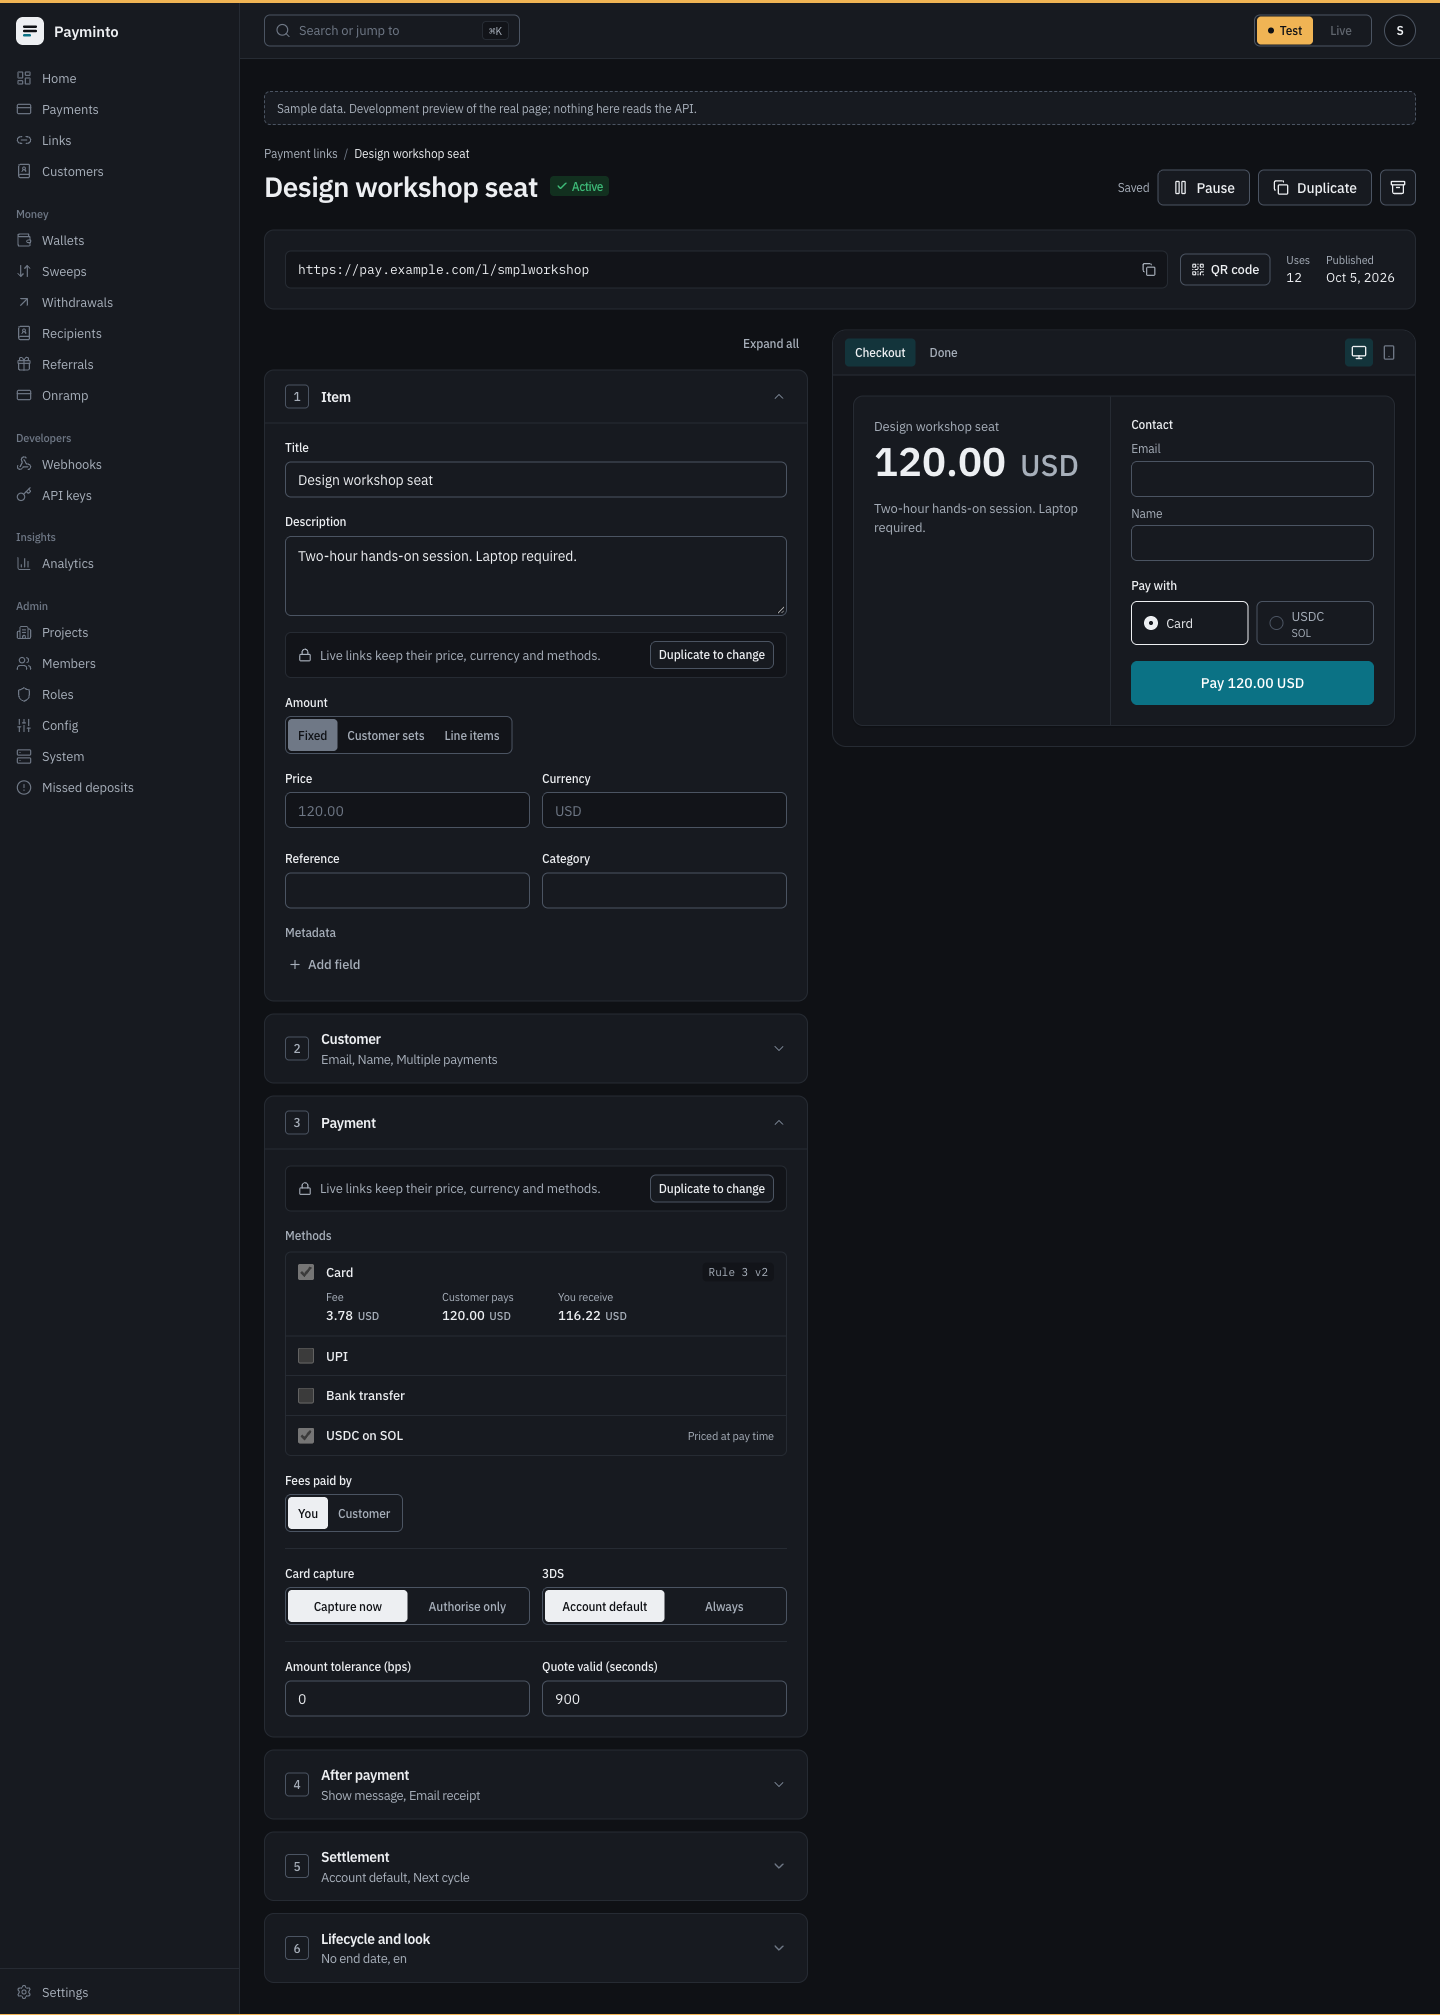
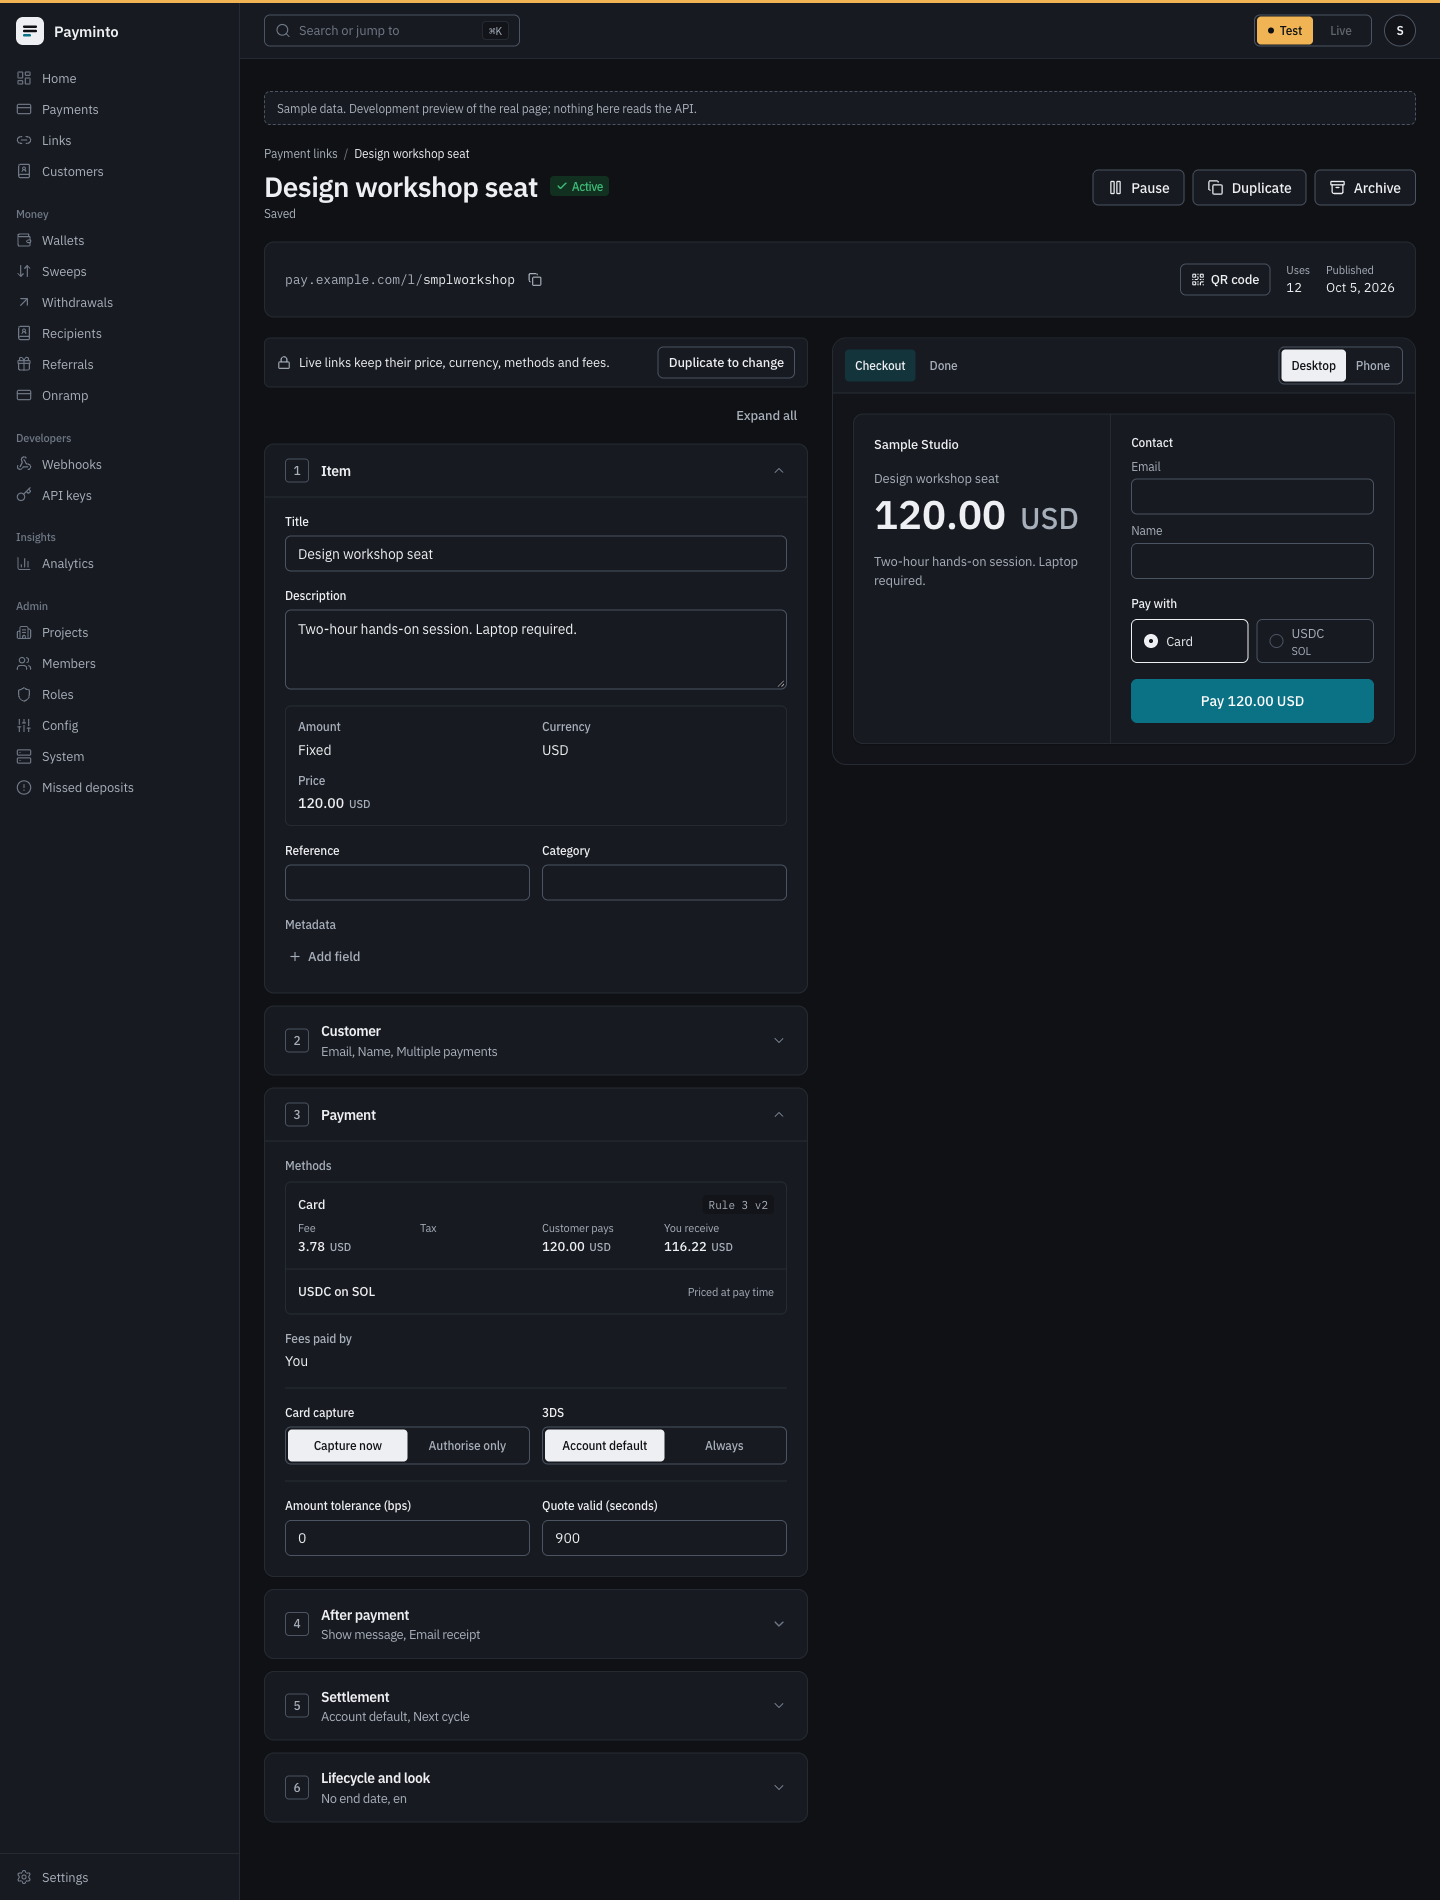
links: visual fixes from the browser pass and fresh screenshots at 390 and 1440, light and dark
Claude-Session: https://claude.ai/code/session_01C1FvPgCCqX9b4755DP2dPG

diff --git a/frontend/features/links/components/steps.tsx b/frontend/features/links/components/steps.tsx
@@ -579,9 +579,9 @@ function MethodRow({
         )}
         {on && fee ? <FeeBadge fee={fee} customerMode={customerMode} /> : null}
       </div>
-      {on && fee?.kind === "priced" ? <FeeGrid preview={fee.preview} currency={currency} /> : null}
+      {on && fee?.kind === "priced" ? <FeeGrid preview={fee.preview} currency={currency} indent={!locked} /> : null}
       {error ? (
-        <div className="pb-1 pl-7">
+        <div className={cn("pb-1", !locked && "pl-7")}>
           <FieldError id={id}>{error}</FieldError>
         </div>
       ) : null}
@@ -612,7 +612,7 @@ function FeeBadge({ fee, customerMode }: { fee: MethodFeeView; customerMode: boo
 }
 
 /** The same four columns for every method so rows line up; the tax cell stays empty when there is none. */
-function FeeGrid({ preview, currency }: { preview: MethodPreview; currency: string }) {
+function FeeGrid({ preview, currency, indent }: { preview: MethodPreview; currency: string; indent: boolean }) {
   const cur = preview.fee_currency || currency;
   const cells: [string, string | null][] = [
     [FEE.fee, preview.fee],
@@ -621,7 +621,7 @@ function FeeGrid({ preview, currency }: { preview: MethodPreview; currency: stri
     [FEE.net, preview.merchant_net],
   ];
   return (
-    <dl className="grid grid-cols-4 gap-x-3 pb-1.5 pl-7">
+    <dl className={cn("grid grid-cols-2 gap-x-3 gap-y-1 pb-1.5 sm:grid-cols-4", indent && "pl-7")}>
       {cells.map(([k, v]) => (
         <div key={k} className="min-w-0">
           <dt className="truncate text-caption text-ink-soft">{k}</dt>
@@ -741,10 +741,10 @@ export function LifecycleStep({ form, edit, err }: StepProps) {
                 aria-label={F.accentPicker}
                 value={accentOk ? form.accent_color.toLowerCase() : "#0b7285"}
                 onChange={(e) => edit("accent_color", set("accent_color", e.target.value.toUpperCase()))}
-                className="absolute inset-0 cursor-pointer opacity-0"
+                className="absolute inset-0 size-full cursor-pointer opacity-0"
               />
             </label>
-            <Input id="lf-accent" className="font-mono uppercase" placeholder={F.noAccent} maxLength={7} value={form.accent_color} {...a11y("lf-accent", err("accent_color"))} onChange={(e) => edit("accent_color", set("accent_color", e.target.value))} />
+            <Input id="lf-accent" className="font-mono uppercase placeholder:normal-case placeholder:font-sans" placeholder={F.noAccent} maxLength={7} value={form.accent_color} {...a11y("lf-accent", err("accent_color"))} onChange={(e) => edit("accent_color", set("accent_color", e.target.value))} />
           </div>
         </Field>
         <Field label={F.language} htmlFor="lf-lang" error={err("language")}>

diff --git a/frontend/features/links/components/link-builder.tsx b/frontend/features/links/components/link-builder.tsx
@@ -326,6 +326,7 @@ export function LinkBuilder({ link: initial, basePath = "/dashboard/links" }: { 
 
   return (
     <div className="space-y-5">
+      <div className="space-y-1">
       <PageHeader
         breadcrumbs={[{ label: LINKS_COPY.listTitle, href: basePath }, { label: title }]}
         title={
@@ -379,13 +380,14 @@ export function LinkBuilder({ link: initial, basePath = "/dashboard/links" }: { 
           ) : null}
         </div>
       </PageHeader>
-      <p role="status" aria-live="polite" className={cn("-mt-3 min-h-4 text-label", saveLabel === B.notSaved ? "text-bad" : "text-ink-soft")}>
+      <p role="status" aria-live="polite" className={cn("min-h-4 text-label", saveLabel === B.notSaved ? "text-bad" : "text-ink-soft")}>
         {saveLabel}
       </p>
+      </div>
 
       {current?.url ? (
         <div className="flex flex-col gap-3 rounded-md border border-line bg-surface p-4 sm:flex-row sm:items-center sm:p-5">
-          <ShortLink url={current.url} title={current.title} className="min-w-0 flex-1" />
+          <ShortLink url={current.url} title={current.title} qr={false} className="min-w-0 flex-1" />
           <div className="flex items-center gap-4">
             <QrButton url={current.url} title={current.title} labelled />
             <dl className="flex items-center gap-4 text-body-sm">

diff --git a/frontend/features/links/components/link-share.tsx b/frontend/features/links/components/link-share.tsx
@@ -21,7 +21,7 @@ export function splitLinkUrl(url: string): { head: string; code: string } {
  * The short link in mono with the host truncated first, then copy and QR as two equal icon buttons
  * (32px on fine pointers, 44px hit area on coarse ones).
  */
-export function ShortLink({ url, title, className }: { url: string; title: string; className?: string }) {
+export function ShortLink({ url, title, className, qr = true }: { url: string; title: string; className?: string; qr?: boolean }) {
   const { head, code } = splitLinkUrl(url);
   return (
     <div className={cn("flex min-w-0 items-center gap-1", className)} onClick={(e) => e.stopPropagation()}>
@@ -30,7 +30,7 @@ export function ShortLink({ url, title, className }: { url: string; title: strin
         <span className="shrink-0">{code}</span>
       </code>
       <CopyButton value={url} variant="ghost" size="icon" label="" successMessage={LINKS_COPY.detail.copied} className="tap size-8 shrink-0" />
-      <QrButton url={url} title={title} />
+      {qr ? <QrButton url={url} title={title} /> : null}
     </div>
   );
 }

diff --git a/frontend/features/links/components/links-list-page.tsx b/frontend/features/links/components/links-list-page.tsx
@@ -71,7 +71,7 @@ function columns(basePath: string): DataTableColumn<PaymentLink>[] {
       key: "url",
       stack: "detail",
       header: C.url,
-      cell: (l) => (l.url ? <ShortLink url={l.url} title={l.title} className="max-w-[30ch]" /> : null),
+      cell: (l) => (l.url ? <ShortLink url={l.url} title={l.title} className="max-w-[46ch] lg:min-w-[38ch]" /> : null),
     },
     {
       key: "created",
